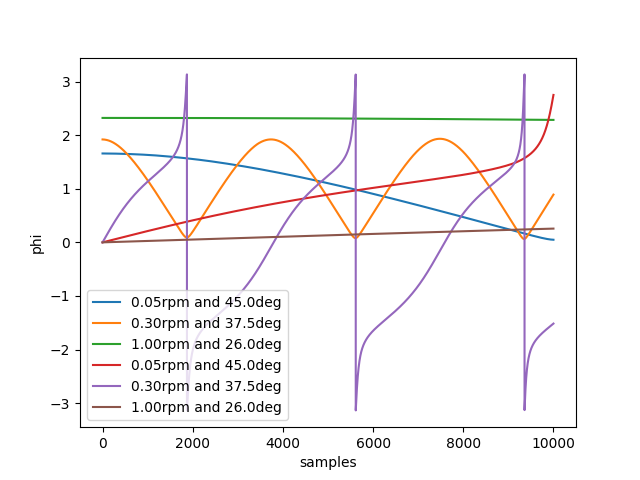
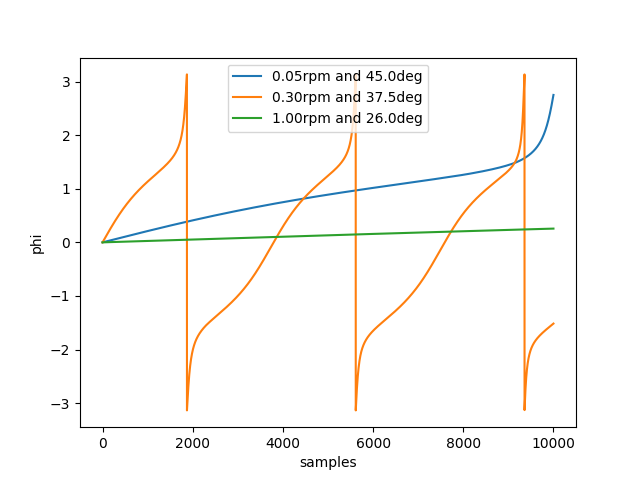
added plt.clf()

diff --git a/validation/check_pointings.py b/validation/check_pointings.py
@@ -55,6 +55,7 @@ plt.legend()
 plt.xlabel('samples')
 plt.ylabel('theta')
 plt.savefig('thetas.png')
+plt.clf()
 
 plt.plot(phi_005_450[:nsamp], label='0.05rpm and 45.0deg')
 plt.plot(phi_030_375[:nsamp], label='0.30rpm and 37.5deg')
@@ -63,6 +64,7 @@ plt.legend()
 plt.xlabel('samples')
 plt.ylabel('phi')
 plt.savefig('phis.png')
+plt.clf()
 
 plt.plot(psi_005_450[:nsamp], label='0.05rpm and 45.0deg')
 plt.plot(psi_030_375[:nsamp], label='0.30rpm and 37.5deg')
@@ -71,4 +73,4 @@ plt.legend()
 plt.xlabel('samples')
 plt.ylabel('psi')
 plt.savefig('psis.png')
-
+plt.clf()
